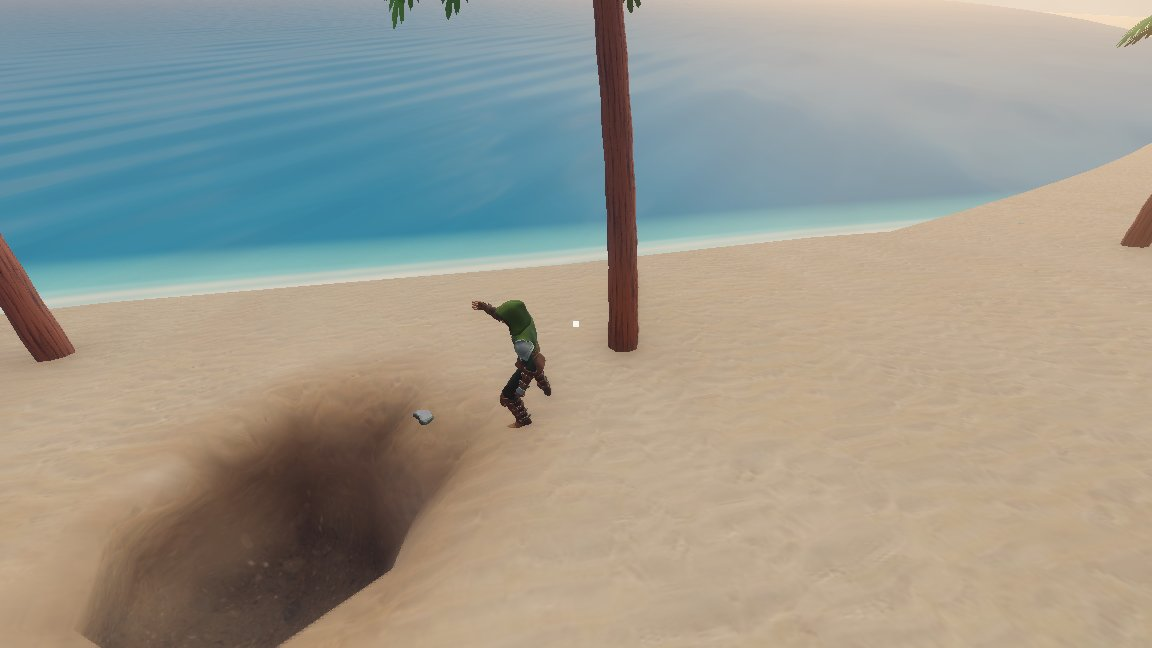
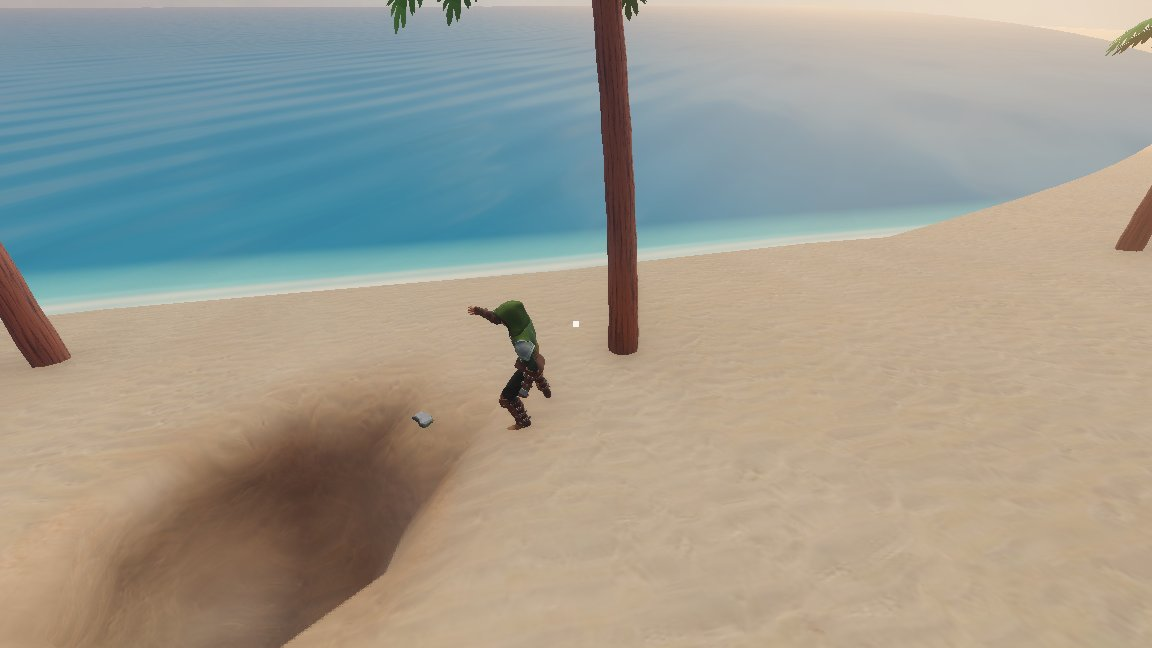
Влажный песок виден: без ореола вокруг ямы и тёмного дна
Верхний слой дальше края ямы больше не красится — вокруг ямы нет тёмного
ореола. Воксели красятся влажным песком на ячейку глубже 1,5 м: цвет
поверхности смешивается из вокселей под ней. Оттенок светлее, SSAO 1,3.
Кадр wet-sand, пересняты run-5…7.

Claude-Session: https://claude.ai/code/session_01Vp2x9VFjxUHLVnSoBuqq9B

diff --git a/docs/engineering/terrain.md b/docs/engineering/terrain.md
@@ -39,8 +39,8 @@
 |---|---|---|
 | 0 `INDEX_SURFACE` | Генератор: поверхность | Трава при нормали `y ≥ 0,78`, круче — камень; на пологом ниже 36,5 м (`SAND_TOP`) — песок пляжа. Шейдер смешивает в полосах ±0,07 по нормали и ±0,8 м по высоте |
 | 1 `INDEX_STONE` | Генератор: глубже высоты по карте больше 2,5 м или с грунтом на 3, 6 или 9 м выше — под навесом | Камень: пол и стены пещер |
-| 2 `INDEX_DIRT` | Копание и насыпание: воксели в шаре радиусом 2,5 м вокруг центра правки, кроме влажного песка | Земля |
-| 3 `INDEX_WET_SAND` | Копание и насыпание на пляже: воксели того же шара, у которых исходная поверхность столбца ниже `SAND_TOP` и воксель не глубже 1,5 м (`WET_SAND_DEPTH`) под ней; насыпь над поверхностью — тоже. Исходную поверхность `WorldTerrain` берёт у генератора: верхняя смена знака SDF в столбце ±16 м от центра правки | Влажный песок: песок с оттенком `wet_tint` — темнее и насыщеннее, шероховатость 0,5 вместо 0,95 |
+| 2 `INDEX_DIRT` | Копание и насыпание: воксели в шаре радиусом 2,5 м вокруг центра правки, кроме влажного песка и нетронутого верхнего слоя (см. ниже) | Земля |
+| 3 `INDEX_WET_SAND` | Копание и насыпание на пляже: воксели того же шара, у которых исходная поверхность столбца ниже `SAND_TOP` и воксель не глубже 2,5 м под ней: 1,5 м (`WET_SAND_DEPTH`) плюс ячейка 1 м (`CELL`), из вокселей которой смешивается цвет поверхности; насыпь над поверхностью — тоже. Верхний слой толщиной 1 м (`SKIN_DEPTH`) дальше 0,5 м (`SKIN_MARGIN`) за краем шара не красится: ровная поверхность вокруг ямы остаётся нетронутой, без ореола. Исходную поверхность `WorldTerrain` берёт у генератора: верхняя смена знака SDF в столбце ±16 м от центра правки | Влажный песок: песок с оттенком `wet_tint` (0,84; 0,72; 0,56) — темнее и насыщеннее, шероховатость 0,5 вместо 0,95 |
 
 Правило продублировано для проверки: `WorldTerrain.ground_at(точка, нормаль)` читает индекс вокселя под поверхностью и применяет тот же порог, что шейдер. Пороги шейдеру передаёт `WorldTerrain`.
 

diff --git a/docs/engineering/game.md b/docs/engineering/game.md
@@ -80,7 +80,7 @@ Godot 4.7, GDScript со статической типизацией. Проек
 - **Атмосфера** (`world/atmosphere.tscn`, экземпляр в `ruins.tscn`, значит, и в мире):
   - солнце на высоте 18° над бухтой (со стороны +X, +Z), тёплое `#FFC98A`, энергия 2,4, резкие тени до 150 м. С террасы руин к морю свет контровой;
   - небо — HDRI Poly Haven `kloofendal_48d_partly_cloudy_puresky`: голубое, с кучевыми облаками;
-  - AgX, экспозиция 1,15; SSAO и SSIL; glow от 1,1 — светятся магико-тех детали;
+  - AgX, экспозиция 1,15; SSAO (сила 1,3: сильнее — пятно в чаше ямы) и SSIL; glow от 1,1 — светятся магико-тех детали;
   - дымка: туман с тёплым розово-сиреневым оттенком и воздушной перспективой; объёмный туман низкой плотности с тёплым альбедо и сильным рассеянием вперёд — лучи сквозь арки и кроны против солнца;
   - цветокоррекция: контраст 1,1, насыщенность 1,2, тёплая кривая `GradientTexture1D`;
   - трава рельефа подкрашена в тёплую оливу, песок — в `#E8D3A6` (`grass_tint`, `sand_tint` шейдера рельефа);
